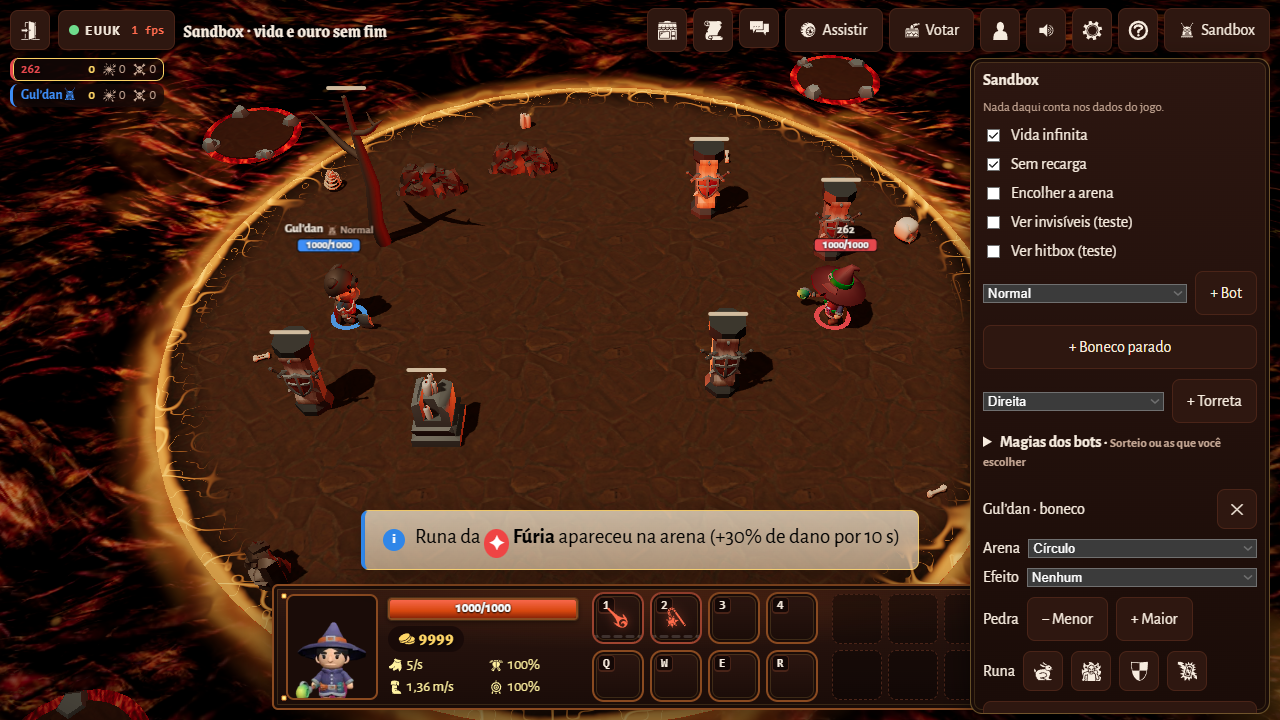
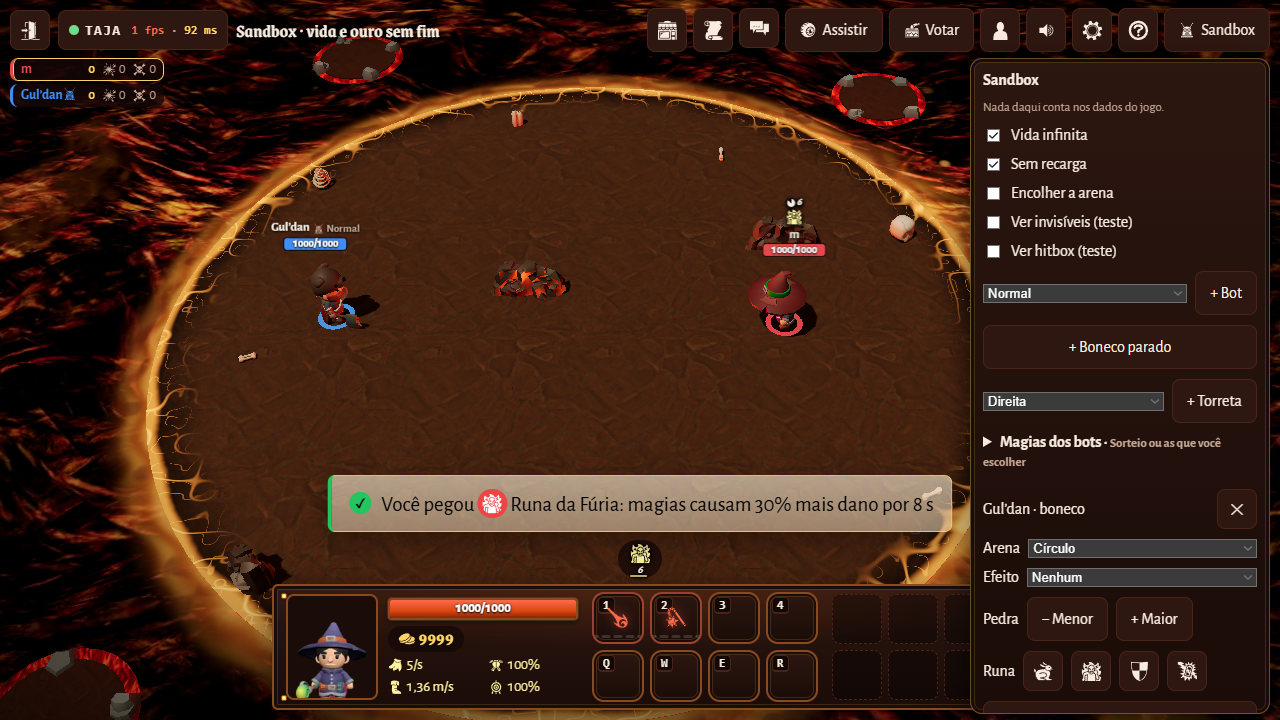
style: aviso a 60% de opacidade e acima do ícone do buff ativo
Pedido do Sky depois de ver o 70% no ambiente do PR: fundo a 60%, borda
a 70% e sombra um pouco mais leve. O aviso cobria 30 px dos ícones dos
buffs ativos (.hud-status, logo acima da barra); agora fica 8 px acima
deles em toda tela (188 px do fundo; 222 px acima de 800 px de altura).

diff --git a/src/client/style.css b/src/client/style.css
@@ -18,9 +18,9 @@
   /* metal envelhecido: gradiente sutil e borda dupla dourada fina */
   --plate: linear-gradient(180deg, var(--panel-top), var(--panel-bot));
   /* pergaminho claro dos avisos: destaca por cima da lava e da pedra escura, que têm o mesmo tom do --plate */
-  /* fundo a 70% para ver a arena atrás sem perder a leitura (escolhido entre 100, 90, 80, 70 e 55%, issue #262); borda a 80% e sombra mais leve para o pergaminho não parecer recortado */
-  --paper: linear-gradient(180deg, color-mix(in srgb, var(--cream) 70%, transparent), color-mix(in srgb, var(--stone) 70%, transparent));
-  --gold-toast: color-mix(in srgb, var(--gold) 80%, transparent); --shadow-toast: 0 10px 30px rgba(0, 0, 0, .38);
+  /* fundo a 60% para ver a arena atrás sem perder a leitura (issue #262: escolhido 60% depois de ver o 70% no ambiente do PR); borda a 70% e sombra mais leve para o pergaminho não parecer recortado */
+  --paper: linear-gradient(180deg, color-mix(in srgb, var(--cream) 60%, transparent), color-mix(in srgb, var(--stone) 60%, transparent));
+  --gold-toast: color-mix(in srgb, var(--gold) 70%, transparent); --shadow-toast: 0 10px 30px rgba(0, 0, 0, .33);
   /* cores dos avisos no pergaminho: azul de informação e vermelho vivo de erro; letra e ícones em preto (--ink): nada marrom no aviso, o resto da tela já é marrom */
   --toast-info: #2f86e8; --toast-bad: #e8261c; --toast-good: #22c55e;
   /* runas nos avisos: as mesmas cores das runas na arena (RUNE_COLOR em scene.ts) */
@@ -307,10 +307,11 @@ button.kick:hover { background: rgba(255, 106, 77, .15); }
 .wiz-label .hp-extra .rush { color: #ff9640; }
 
 /* letra 1,3x do tamanho normal, a mesma do aviso de quem saiu (PR #234), e fundo claro: o aviso aparece por poucos segundos no meio da partida e precisa ser lido de relance */
-#toast { position: fixed; left: 50%; bottom: calc(150px + var(--safe-b)); transform: translateX(-50%); background: var(--paper); color: var(--ink); border: 1px solid var(--gold-toast); box-shadow: var(--shadow-toast); padding: 13px 18px; border-radius: var(--r-sm); font-size: 1.3rem; opacity: 0; transition: opacity .2s; pointer-events: none; max-width: calc(100% - 32px); overflow-wrap: anywhere; z-index: 20; user-select: text; }
+#toast { position: fixed; left: 50%; bottom: calc(188px + var(--safe-b)); transform: translateX(-50%); background: var(--paper); color: var(--ink); border: 1px solid var(--gold-toast); box-shadow: var(--shadow-toast); padding: 13px 18px; border-radius: var(--r-sm); font-size: 1.3rem; opacity: 0; transition: opacity .2s; pointer-events: none; max-width: calc(100% - 32px); overflow-wrap: anywhere; z-index: 20; user-select: text; }
 #toast.show { opacity: 1; pointer-events: auto; }
-/* acima de 800 px de altura a barra de baixo tem 160 px + 10 de margem (no 1080 o aviso a 150 px cobria 20 px dela): 14 px de folga, a mesma do 720 */
-@media (min-width: 601px) and (min-height: 801px) { #toast { bottom: calc(184px + var(--safe-b)); } }
+/* o aviso fica acima dos ícones dos buffs ativos (.hud-status, 44 px acima da barra), com 8 px de folga, para não tapá-los (issue #262);
+   acima de 800 px de altura a barra de baixo tem 160 px + 10 de margem em vez de 118 + 10, então o aviso sobe junto */
+@media (min-width: 601px) and (min-height: 801px) { #toast { bottom: calc(222px + var(--safe-b)); } }
 /* com uma loja aberta o clique atravessa o aviso: ele fica por cima da última fileira de cartas e tapava a compra (issue #208) */
 body:has(.center .shop, .peek-shop:not([hidden]) .shop) #toast { pointer-events: none; }
 body.in-room::after { content: ''; position: fixed; inset: 0; pointer-events: none; background: radial-gradient(ellipse at 50% 50%, transparent 55%, rgba(0, 0, 0, .55) 100%); z-index: 1; }
